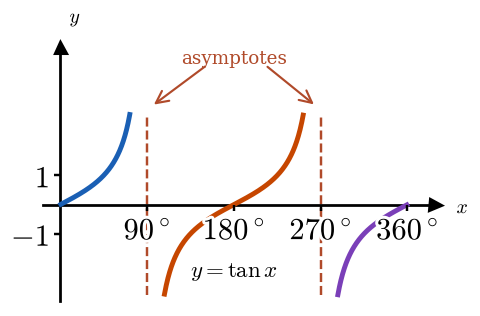
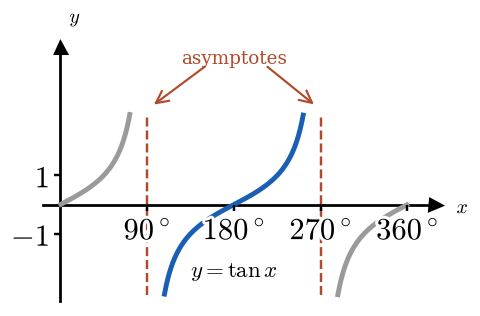
A colour means a WHOLE graph; a part-graph at the edge of the range is grey
Adrian, 14 Sep 2026, on the 0-360 tangent picture drawn with all three pieces
coloured: "you misunderstand. this is ONE tangent graph". A tangent graph runs
from one asymptote to the next, so only a piece with an asymptote at BOTH ends
earns a colour. The stub left at either end of the range is an offcut of the
graph next door and is drawn grey, so the eye never counts it as a graph.

y = tan x over 0-360: the 90-270 branch alone is coloured. y = tan 2x: three
whole graphs take the three colours, the two stubs stay grey — three whole plus
two halves is the four the period promises. y = 2 tan (x/2) holds no whole graph
at all and stays plain BLACK, not grey: grey means "offcut, don't count it"
beside things that are being counted, and there nothing is.

cycle_colour('part') is the grey. Two earlier conventions are now both dead —
the ends sharing one colour, and the ends taking two different colours.

diff --git a/.claude/skills/create-worksheet/trig_figures/tgraphs.py b/.claude/skills/create-worksheet/trig_figures/tgraphs.py
@@ -42,20 +42,20 @@ def _sincos(out, fn, label):
 
 
 def _tan(out):
-    """y = tan x to 360 deg — one colour per tangent graph.
+    """y = tan x to 360 deg — a colour marks a WHOLE tangent graph.
 
-    ONE TANGENT GRAPH IS THE PIECE BETWEEN TWO ASYMPTOTES (Adrian, 14 Sep 2026,
+    ONE TANGENT GRAPH RUNS FROM ONE ASYMPTOTE TO THE NEXT (Adrian, 14 Sep 2026,
     on the 90-270 branch: "this is considered one tangent graph -> this should
-    be same colour, then another set of this should be another colour").  So
-    the piece is the unit of colour: 0-90 is the tail of one graph, 90-270 is
-    a whole one, 270-360 is the head of the next, and all three take DIFFERENT
-    colours — the halves at the two ends belong to different graphs and must
-    never share.  How many graphs are in the range is read off the period
-    (360 / 180 = 2), not counted off the colour bands, and no numerals go on
-    the picture ("don't have to put the numbers", 14 Sep 2026).
+    be same colour, then another set of this should be another colour").  Only
+    a whole one is coloured: inside 0-360 that is the 90-270 branch alone.  The
+    stub before 90 and the stub after 270 are offcuts of the graphs next door,
+    so they are drawn GREY — colouring them would say three graphs, and he
+    corrected exactly that ("you misunderstand.  this is ONE tangent graph").
+    How many graphs are in the range is read off the period (360 / 180 = 2),
+    and no numerals go on the picture ("don't have to put the numbers").
     """
     f, ax = plt.subplots(figsize=(2.3, 1.5))
-    for a, b, ci in [(0, 90, 0), (90, 270, 1), (270, 360, 2)]:
+    for a, b, ci in [(0, 90, 'part'), (90, 270, 0), (270, 360, 'part')]:
         x = np.linspace(a + 0.6, b - 0.6, 400)
         y = np.tan(x * DEG)
         y[np.abs(y) > 3.1] = np.nan
@@ -82,10 +82,14 @@ def variation(out, fn, xmax, ymin, ymax, xticks, yticks, centre=None,
     holding more than one graph is colour coded — one colour per graph.  Left
     out, the curve is drawn plain black, which is what a range holding a single
     graph should look like.  The colour is the whole of the count; the graphs
-    carry no numerals ("don't have to put the numbers", 14 Sep 2026).  On a
-    TANGENT curve the unit is the piece between two asymptotes — one piece,
-    one colour, and never the same colour twice in a row, so a part-graph at
-    the start of the range and a part-graph at the end are coloured apart.
+    carry no numerals ("don't have to put the numbers", 14 Sep 2026).
+
+    A COLOUR MEANS A WHOLE GRAPH.  On a TANGENT curve a graph runs from one
+    asymptote to the next, so only a piece with an asymptote at BOTH ends takes
+    a colour; the stub left at either end of the range is an offcut of a graph
+    that does not fit in the picture and is given colour number `'part'`, which
+    draws it grey.  ("you misunderstand.  this is ONE tangent graph", Adrian,
+    14 Sep 2026, on a picture that had coloured all three pieces.)
     """
     f, ax = plt.subplots(figsize=(2.3, 1.55))
     if pieces is None:
@@ -165,16 +169,20 @@ if __name__ == '__main__':
               dots=[(180, 3), (0, -1)],
               note=r'$a<0$ turns the curve over')
     # 5. b on tan — y = tan 2x, drawn to 360 deg so the four are there to see.
-    #    Five pieces between asymptotes, five colours: the part-graph at 0-45
-    #    and the part-graph at 315-360 belong to different graphs.
+    #    Three WHOLE graphs sit inside the range and take the three colours; the
+    #    stubs at 0-45 and 315-360 are offcuts and stay grey.  Three whole plus
+    #    two halves is the four the period promises.
     variation('v_tan_b.png', lambda t: np.tan(2 * d(t)), 360, -2.7, 4.6,
               [90, 180, 270, 360], [-1, 1], asym=(45, 135, 225, 315),
               clip=(-2.5, 2.5),
               period=(45, 135, 3.05, r'period $90^\circ$'),
-              pieces=[(0, 45, 0), (45, 135, 1), (135, 225, 2),
-                      (225, 315, 3), (315, 360, 4)])
-    # 6. a and a fractional b on tan — y = 2 tan (x/2).  One tangent graph fills
-    #    the whole range, so there is nothing to colour code.
+              pieces=[(0, 45, 'part'), (45, 135, 0), (135, 225, 1),
+                      (225, 315, 2), (315, 360, 'part')])
+    # 6. a and a fractional b on tan — y = 2 tan (x/2).  The period is the whole
+    #    range, so no WHOLE graph fits inside it — the picture is the back half
+    #    of one graph and the front half of the next.  Nothing to count, so the
+    #    curve stays plain black rather than grey: grey says "offcut, don't count
+    #    it" next to things that ARE being counted, and here nothing is.
     variation('v_tan_ab.png', lambda t: 2 * np.tan(d(t) / 2), 360, -3.3, 5.2,
               [90, 180, 270, 360], [-2, 2], asym=(180,), clip=(-3.0, 3.0),
               period=(0, 360, 4.2, r'period $360^\circ$'))

diff --git a/.claude/skills/create-worksheet/trig_figures/axes.py b/.claude/skills/create-worksheet/trig_figures/axes.py
@@ -72,13 +72,25 @@ def arrow_axes(ax, xlabel='x', ylabel='y', color='k', size=7.0, lw=0.9,
 CYCLE_COLOURS = ['#1a5fb4', '#c64600', '#7a3fb8', '#0b7285', '#a4187a']
 CURVE = '#1a1a1a'
 
+# A COLOUR MEANS A WHOLE GRAPH.  Adrian, 14 Sep 2026, on the 0-360 tangent
+# picture with all three pieces coloured: "you misunderstand.  this is ONE
+# tangent graph" — a tangent graph runs from one asymptote to the next, and the
+# stub left at each end of the range is an offcut of the graph next door, not a
+# graph of its own.  An offcut is drawn GREY so it is plainly not one of the
+# things being counted.
+PART_GRAPH = '#9a9a9a'
+
 
 def cycle_colour(i, default=CURVE):
-    """Colour for repeat number i (0-based).  None = a single graph, so black.
+    """Colour for graph number i (0-based).  None = a single graph, so black.
 
-    A range holding only one graph is drawn plain — a colour there would be
-    counting something there is nothing to count.  Adjacent graphs must never
-    land on the same colour, so there are five here: a tangent range can hold
-    four whole graphs plus a part-graph at each end.
+    `'part'` = a part-graph at the edge of the range, drawn grey: it is an
+    offcut of a graph that does not fit in the picture, and colouring it would
+    add one to the count the colours are there to make.  A range holding only
+    one graph is drawn plain black — a colour there would be counting something
+    there is nothing to count.  Adjacent graphs never land on the same colour,
+    so there are five.
     """
+    if i == 'part':
+        return PART_GRAPH
     return default if i is None else CYCLE_COLOURS[i % len(CYCLE_COLOURS)]

diff --git a/.claude/skills/create-worksheet/ADRIAN-STYLE.md b/.claude/skills/create-worksheet/ADRIAN-STYLE.md
@@ -210,26 +210,34 @@ The reference is his own notes: `Dropbox/Apps/AdrianMathNotes/Notes/AM/15–20 *
   colour there counts something there is nothing to count. Palette and helper live in
   `trig_figures/axes.py` (`CYCLE_COLOURS`, `cycle_colour(i)`); every figure uses the same
   one, so graph 2 is the same orange on the step-by-step panels as on the variation
-  graphs. **Two graphs that touch never take the same colour** — the palette holds five
-  because a tangent range can hold four whole graphs plus a part-graph at each end.
-- **One tangent graph is the piece between two asymptotes** (14 Sep 2026, pointing at the
-  90°–270° branch of `y = tan x`: "this is considered one tangent graph -> this should be
-  same colour, then another set of this should be another colour"). So the piece, not the
-  period counted from 0, is the unit of colour: on `y = tan x` over 0°–360° the tail at
-  0°–90°, the whole branch at 90°–270° and the head at 270°–360° are three DIFFERENT
-  colours. A part-graph at the start of the range and a part-graph at the end belong to
-  different graphs and must never share a colour — an earlier version gave both ends the
-  same colour to say "between them they make one", and he corrected it. How many graphs
-  are in the range is read off the period, not counted off the colour bands.
+  graphs. **Two graphs that touch never take the same colour** — the palette holds five.
+- **A COLOUR MEANS A WHOLE GRAPH; a part-graph at the edge of the range is grey**
+  (14 Sep 2026, on `y = tan x` over 0°–360° drawn with all three pieces coloured: "you
+  misunderstand. this is ONE tangent graph"). A tangent graph runs from one asymptote to
+  the next, so only a piece with an asymptote at BOTH ends earns a colour. Inside 0°–360°
+  that is the 90°–270° branch alone: the stub before 90° and the stub after 270° are
+  offcuts of the graphs next door, drawn GREY so the eye does not count them. On
+  `y = tan 2x` the three whole graphs (45°–135°, 135°–225°, 225°–315°) take the three
+  colours and the two stubs stay grey — three whole plus two halves is the four the
+  period promises. **Do not colour a part-graph at all**: one earlier version gave both
+  ends the same colour to say "between them they make one", the next gave them two
+  different colours to say they belong to different graphs, and he corrected both — a
+  colour on the picture is a graph you can count, and half a graph is not one. When the
+  range holds no whole graph at all (`y = 2 tan ½x` over 0°–360° is the back half of one
+  and the front half of the next) the curve is plain BLACK, not grey: grey means "offcut,
+  don't count this one" beside things that are being counted, and there nothing is.
+  `cycle_colour('part')` in `trig_figures/axes.py` is the grey. How many graphs are in
+  the range is read off the period, never counted off the colour bands.
 - **A tangent graph is drawn to 360°, not to one period** (14 Sep 2026: "for tangent
   graph draw until 360 degrees, to illustrate how many tangent graph there are in
   360degrees"). The point of the picture is the count, and a picture that stops at one
   period has nothing to count. One tangent graph is only 180° wide, so `y = a tan bx`
   has **`b` tangent graphs in 180°, and `2b` in 360°** — do NOT carry over the sine and
   cosine rule of "`b` graphs in 360°", it gives the wrong number for tangent. The range
-  ends usually cut a graph in half; each half is part of its OWN graph and is coloured
-  apart from the other end (see the bullet above). Pattern: `trig_figures/tgraphs.py`
-  `variation(..., pieces=…)`, one `(from, to, colour)` run per piece between asymptotes.
+  ends usually cut a graph in half; a half is not a graph, so it is drawn grey and left
+  out of the count (see the bullet above). Pattern: `trig_figures/tgraphs.py`
+  `variation(..., pieces=…)`, one `(from, to, colour)` run per piece between asymptotes,
+  with `'part'` as the colour number for a stub at either end.
 - **A shifted sine or cosine shows its centre line, dotted** (14 Sep 2026: "the graph in
   the solution should show the centre line (dotted)"). Any sketch of
   `y = a sin bx + c` / `y = a cos bx + c` with `c ≠ 0` — the SOLUTION graphs as much as

diff --git a/.claude/skills/create-worksheet/trig_figures/README.md b/.claude/skills/create-worksheet/trig_figures/README.md
@@ -29,19 +29,23 @@ Matplotlib helpers, run under `/usr/bin/python3` (Pillow + numpy live there):
   highlight the number of graphs", 14 Sep 2026), and **no numerals on the picture**
   ("for the trigo graphs, don't have to put the numbers", 14 Sep 2026) — the colour is
   the whole of the count. One graph in the range stays plain black. Five colours, because
-  two graphs that touch must never share one. The same palette serves `tgraphs.py` and
-  `drawsteps.py`, so graph 2 is the same orange in both.
+  two graphs that touch must never share one. **A colour means a WHOLE graph** — a
+  part-graph at the edge of the range is an offcut, so `cycle_colour('part')` draws it
+  grey and it is left out of the count ("you misunderstand. this is ONE tangent graph",
+  14 Sep 2026). The same palette serves `tgraphs.py` and `drawsteps.py`, so graph 2 is
+  the same orange in both.
 - `tgraphs.py` — the three basic shapes (sin, cos, tan) for a three-column notes block,
-  plus six variation graphs showing what a, b and c each do. `variation(..., pieces=…,
-  numbers=…)` does the colour coding; `cycles(xmax, period)` builds the runs for a curve
+  plus six variation graphs showing what a, b and c each do. `variation(..., pieces=…)`
+  does the colour coding; `cycles(xmax, period)` builds the runs for a curve
   that simply repeats. **Tangent graphs are drawn to 360°** ("draw until 360 degrees, to
   illustrate how many tangent graph there are in 360degrees", 14 Sep 2026) — one tangent
   graph is 180° wide, so `y = a tan bx` gives `b` of them in 180° and `2b` in 360°.
-  **On a tangent curve the unit of colour is the piece between two asymptotes** ("this is
-  considered one tangent graph -> this should be same colour, then another set of this
-  should be another colour", 14 Sep 2026): one piece, one colour, so the part-graph at the
-  start of the range and the part-graph at the end are coloured APART — they belong to
-  different graphs. Give `pieces` one run per piece.
+  **On a tangent curve a graph runs from one asymptote to the next, and only a WHOLE one
+  is coloured** ("this is considered one tangent graph -> this should be same colour, then
+  another set of this should be another colour" / "you misunderstand. this is ONE tangent
+  graph", 14 Sep 2026): the stub at either end of the range is an offcut of the graph next
+  door, so it takes colour number `'part'` and comes out grey. Give `pieces` one run per
+  piece between asymptotes.
 - `drawsteps.py` — the step-by-step SERIES for "how to draw a graph": six panels of the
   same axes, each adding one step (max/min → centre line → period and cycles → the five
   points → one cycle drawn → the cycle copied along, one colour per copy).
